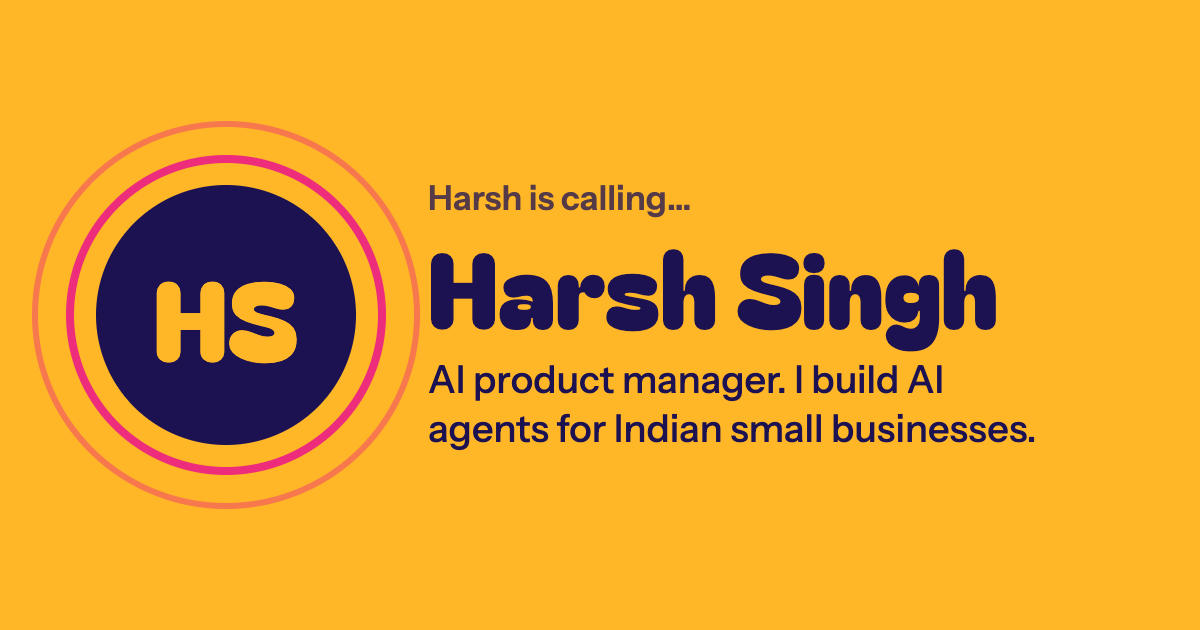
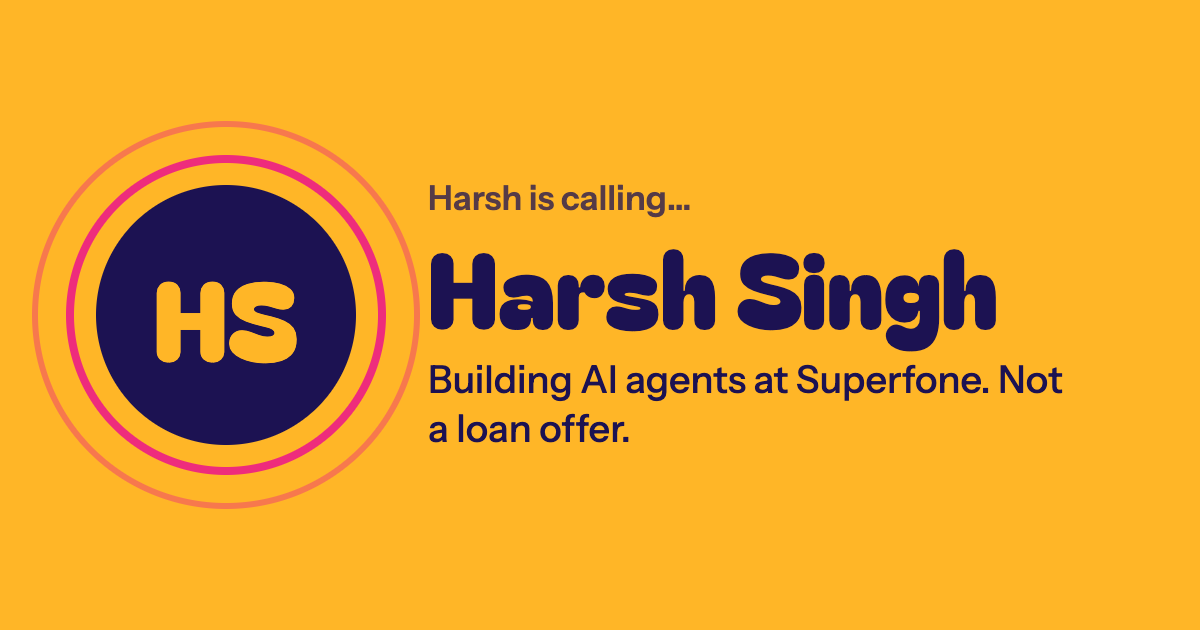
Card: light-hearted copy, decline button, Superfone named

Changed region(s): [[0.3392, 0.573, 0.8942, 0.7238]]

diff --git a/index.html b/index.html
@@ -4,13 +4,13 @@
 <meta charset="utf-8">
 <meta name="viewport" content="width=device-width, initial-scale=1, viewport-fit=cover">
 <title>Harsh Singh</title>
-<meta name="description" content="AI product manager in Bengaluru. I build AI agents that answer calls and WhatsApp chats for Indian small businesses.">
+<meta name="description" content="Harsh Singh builds AI agents at Superfone that answer calls and WhatsApps for Indian small businesses.">
 <meta name="robots" content="noindex, nofollow">
 <meta name="theme-color" content="#FFB627" media="(prefers-color-scheme: light)">
 <meta name="theme-color" content="#1C1252" media="(prefers-color-scheme: dark)">
 <meta property="og:type" content="profile">
 <meta property="og:title" content="Harsh Singh is calling…">
-<meta property="og:description" content="AI product manager. I build AI agents for Indian small businesses. Tap to save my contact.">
+<meta property="og:description" content="Building AI agents at Superfone. Not a loan offer. Tap to save my contact.">
 <meta property="og:url" content="https://rickyric395.github.io/">
 <meta property="og:image" content="https://rickyric395.github.io/og.png">
 <meta property="og:image:width" content="1200">
@@ -72,7 +72,7 @@
   .call {
     max-width: 26rem;
     margin: 0 auto;
-    padding: max(1.25rem, env(safe-area-inset-top)) 1rem 9.5rem;
+    padding: max(1.25rem, env(safe-area-inset-top)) 1rem 11rem;
     text-align: center;
   }
 
@@ -243,14 +243,64 @@
     background: linear-gradient(to bottom, transparent, var(--bg) 1.1rem);
     text-align: center;
   }
+  .dock-row {
+    display: flex;
+    align-items: center;
+    gap: .75rem;
+    max-width: 24rem;
+    margin: 0 auto;
+  }
+  .decline {
+    flex: none;
+    display: grid;
+    place-items: center;
+    width: 3.75rem;
+    height: 3.75rem;
+    padding: 0;
+    border: 0;
+    border-radius: 50%;
+    background: #D92D20;
+    color: #fff;
+    cursor: pointer;
+    box-shadow: 0 6px 0 rgba(0, 0, 0, .18);
+  }
+  .decline svg { width: 1.6rem; height: 1.6rem; }
+  .decline:active { transform: translateY(3px); box-shadow: 0 3px 0 rgba(0, 0, 0, .18); }
+  .decline:focus-visible, .answer:focus-visible { outline: 3px solid var(--focus); outline-offset: 3px; }
+  .toast {
+    max-width: 24rem;
+    margin: 0 auto .7rem;
+    padding: .6rem .9rem;
+    border-radius: .9rem;
+    background: var(--face);
+    color: var(--face-ink);
+    font-size: .9375rem;
+    font-weight: 600;
+  }
+  .toast:empty { display: none; }
+  @media (prefers-reduced-motion: no-preference) {
+    .toast { animation: pop .2s ease-out; }
+    .nope .face { animation: buzz .6s ease-in-out; }
+  }
+  .tag {
+    display: inline-flex;
+    align-items: center;
+    gap: .35rem;
+    margin: .7rem 0 0;
+    padding: .3rem .75rem .3rem .6rem;
+    border-radius: 999px;
+    background: var(--key);
+    font-size: .875rem;
+    font-weight: 600;
+  }
+  .tag svg { width: 1rem; height: 1rem; color: var(--go); }
   .answer {
+    flex: 1;
     display: flex;
     align-items: center;
     justify-content: center;
     gap: .7rem;
-    max-width: 24rem;
     min-height: 3.75rem;
-    margin: 0 auto;
     border-radius: 999px;
     background: var(--go);
     color: var(--go-ink);
@@ -287,7 +337,8 @@
   </div>
 
   <h1>Harsh Singh</h1>
-  <p class="role">AI product manager in Bengaluru</p>
+  <p class="role">Building AI agents at Superfone, Bengaluru</p>
+  <p class="tag"><svg viewBox="0 0 24 24" fill="none" stroke="currentColor" stroke-width="3" stroke-linecap="round" stroke-linejoin="round" aria-hidden="true"><path d="m5 12.5 4.5 4.5L19 7.5"/></svg>Verified: not a loan offer</p>
 
   <nav class="keys" aria-label="Reach Harsh">
     <a class="key" href="https://wa.me/918005165727?text=Hi%20Harsh%2C%20we%20met%20at%20the%20summit.">
@@ -304,25 +355,31 @@
     </a>
     <a class="key" href="https://superfone.in/ai-receptionist">
       <span class="key-icon"><svg viewBox="0 0 24 24" fill="none" stroke="currentColor" stroke-width="2.2" stroke-linecap="round" aria-hidden="true"><path d="M4 10v4M8 7v10M12 4v16M16 7v10M20 10v4"/></svg></span>
-      My work
+      Superfone
     </a>
   </nav>
 
   <section class="transcript" aria-label="About Harsh">
     <p class="t-label"><span class="rec" aria-hidden="true"></span>Live transcript</p>
-    <p class="bubble">Hi! I build AI agents that pick up calls and WhatsApp chats for Indian small businesses, at Superfone.</p>
-    <p class="bubble">I also took our AI receptionist to market and sold it to its first customers myself.</p>
-    <p class="bubble">Before product, I was an engineer at ClearTax.</p>
+    <p class="bubble">Hi! I build AI that answers calls and WhatsApps for Indian small businesses, so the owner can finally eat lunch in peace.</p>
+    <p class="bubble">I sold our first AI receptionists myself, clinics included. Then I handed sales back to the professionals.</p>
+    <p class="bubble">Ex-frontend engineer at ClearTax. Now I build agents, not buttons.</p>
   </section>
 
 </main>
 
 <div class="dock">
+  <p class="toast" id="toast" role="status" aria-live="polite"></p>
+  <div class="dock-row">
+  <button class="decline" id="decline" type="button" aria-label="Decline call">
+    <svg viewBox="0 0 24 24" fill="currentColor" aria-hidden="true"><path d="M12 9c-1.6 0-3.1.3-4.6.8v3.1c0 .4-.2.7-.6.9-.9.5-1.8 1-2.5 1.7-.2.2-.4.3-.7.3-.3 0-.5-.1-.7-.3L.3 13c-.2-.2-.3-.4-.3-.7 0-.3.1-.5.3-.7C3.3 8.7 7.4 7 12 7s8.7 1.7 11.7 4.6c.2.2.3.4.3.7 0 .3-.1.5-.3.7l-2.5 2.5c-.2.2-.4.3-.7.3-.3 0-.5-.1-.7-.3-.8-.7-1.6-1.3-2.5-1.7-.3-.2-.6-.5-.6-.9V9.8C15.1 9.3 13.6 9 12 9z"/></svg>
+  </button>
   <a class="answer" href="harsh-singh.vcf">
     <svg viewBox="0 0 24 24" fill="currentColor" aria-hidden="true"><path d="M6.6 10.8a15.1 15.1 0 0 0 6.6 6.6l2.2-2.2c.3-.3.7-.4 1-.2 1.1.4 2.3.6 3.6.6.6 0 1 .4 1 1V20c0 .6-.4 1-1 1A17 17 0 0 1 3 4c0-.6.4-1 1-1h3.5c.6 0 1 .4 1 1 0 1.3.2 2.5.6 3.6.1.3 0 .7-.2 1l-2.3 2.2z"/></svg>
     Save my contact
   </a>
-  <p class="dock-hint">Adds my number and email to your phone</p>
+  </div>
+  <p class="dock-hint">Adds me to your contacts. No OTP needed.</p>
 </div>
 
 <script>
@@ -345,6 +402,16 @@
     tick();
     setInterval(tick, 1000);
   }
+  var nopes = ['Ouch. Fair enough.', 'Okay, but save the number?'];
+  var nopeCount = 0, toastTimer, toast = document.getElementById('toast');
+  document.getElementById('decline').addEventListener('click', function () {
+    toast.textContent = nopes[nopeCount++ % nopes.length];
+    document.body.classList.remove('nope');
+    void document.body.offsetWidth;
+    document.body.classList.add('nope');
+    clearTimeout(toastTimer);
+    toastTimer = setTimeout(function () { toast.textContent = ''; }, 3000);
+  });
   function wait(ms) { return new Promise(function (r) { setTimeout(r, ms); }); }
 
   if (reduce) {
